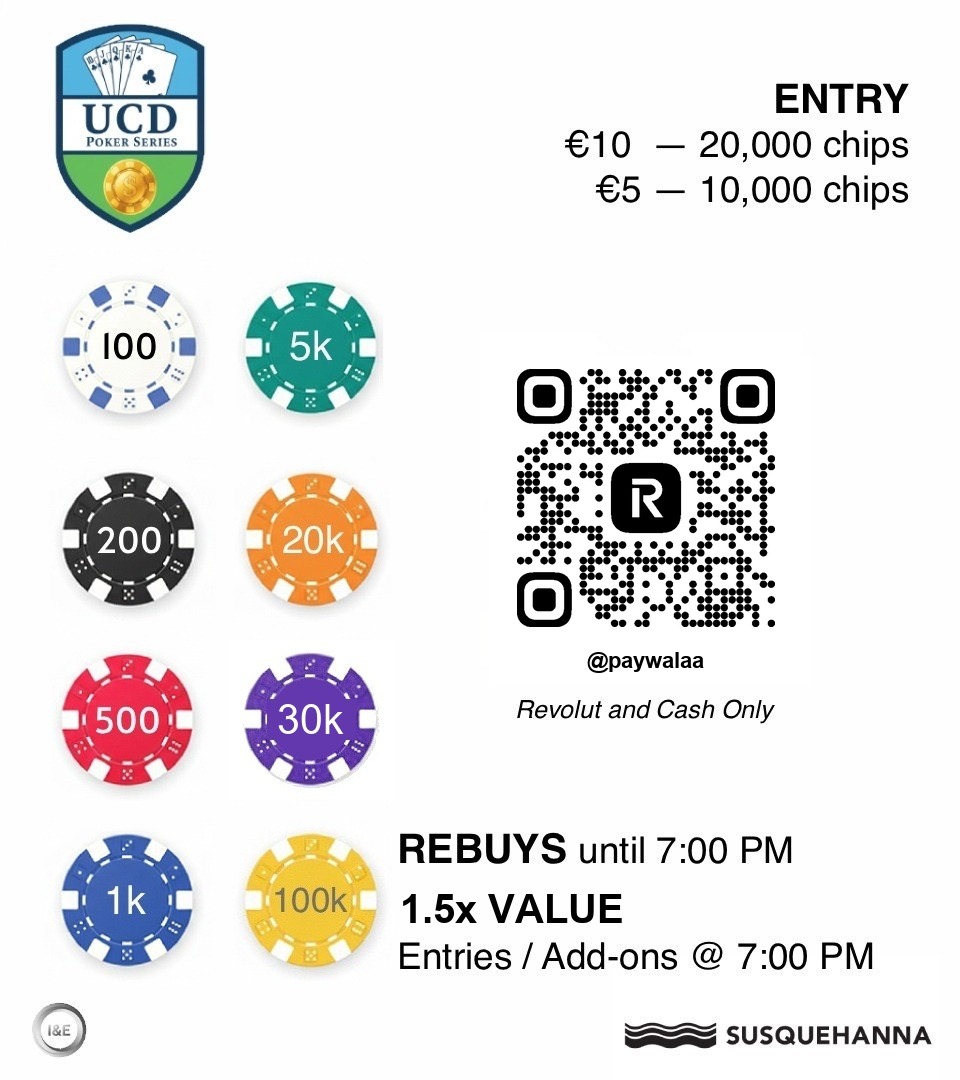
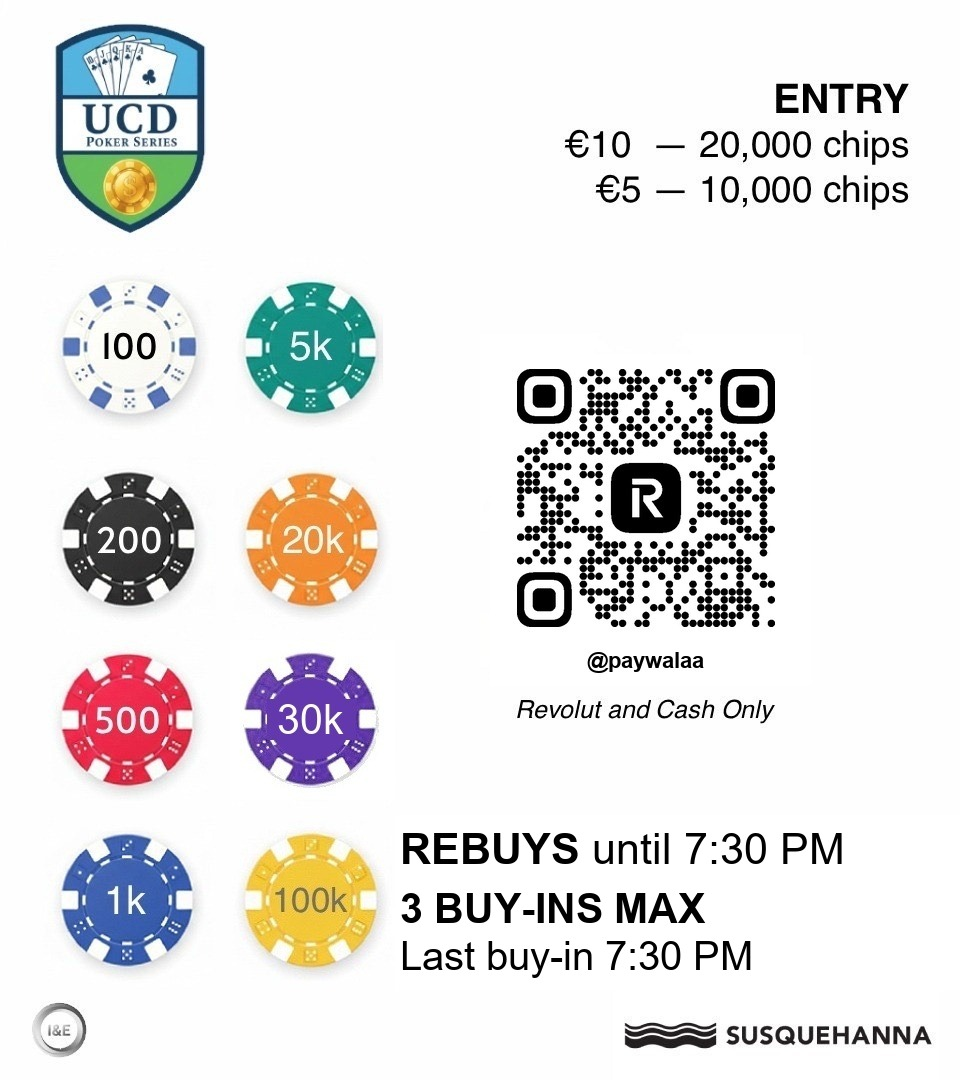
Walaa's sheet: rebuys until 7:30 PM, 3 buy-ins max, drop add-ons and 1.5x value

Changed region(s): [[0.4062, 0.7639, 0.9062, 0.9167]]

diff --git a/README.md b/README.md
@@ -26,7 +26,8 @@ Two versions:
 `poker_blinds.jpeg` is the printed blind-structure sheet the default levels
 are based on. `poker_blinds_johnny.jpeg` is the same sheet with Johnny's
 Revolut QR (@johnpa61dj) for buy-ins, and `poker_blinds_walaa.jpeg` the same
-sheet with Walaa's Revolut QR (@paywalaa). `poker_blinds_cash.jpeg` is the cash-game
+sheet with Walaa's Revolut QR (@paywalaa), rebuys until 7:30 PM, 3 buy-ins
+max, no add-ons. `poker_blinds_cash.jpeg` is the cash-game
 version: 5c/10c blinds, chips white 5c, red 25c, green 50c, blue €1, orange €2,
 purple €5, yellow €10, €5/€10/€15 buy-ins, and Michael's Revolut QR
 (@michaelt8b).
